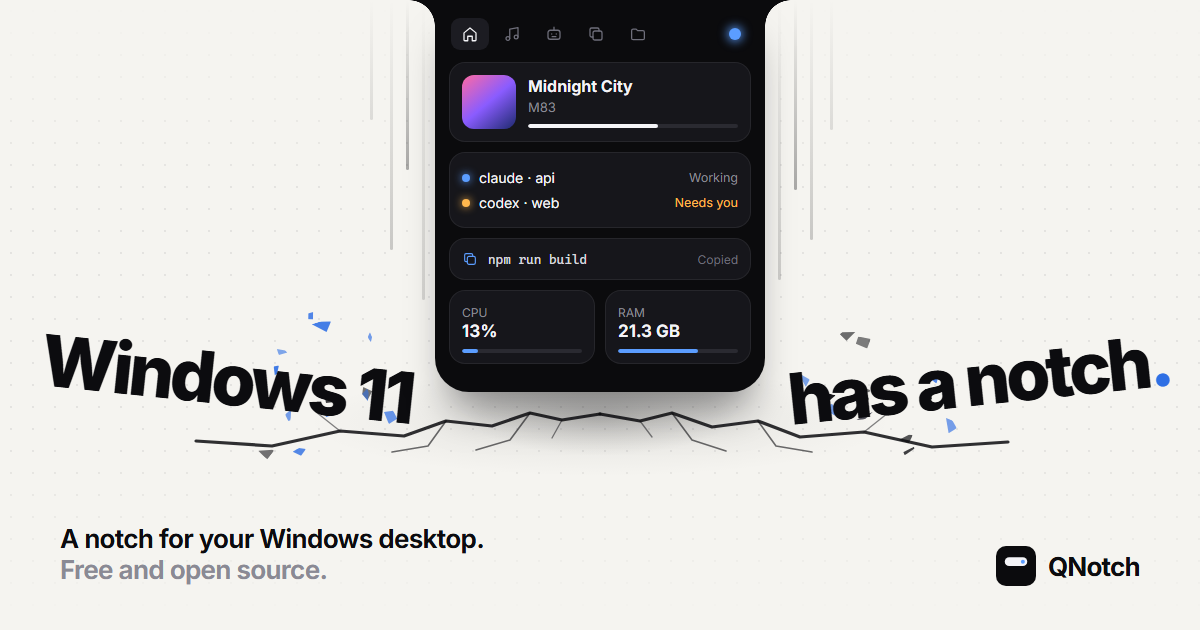
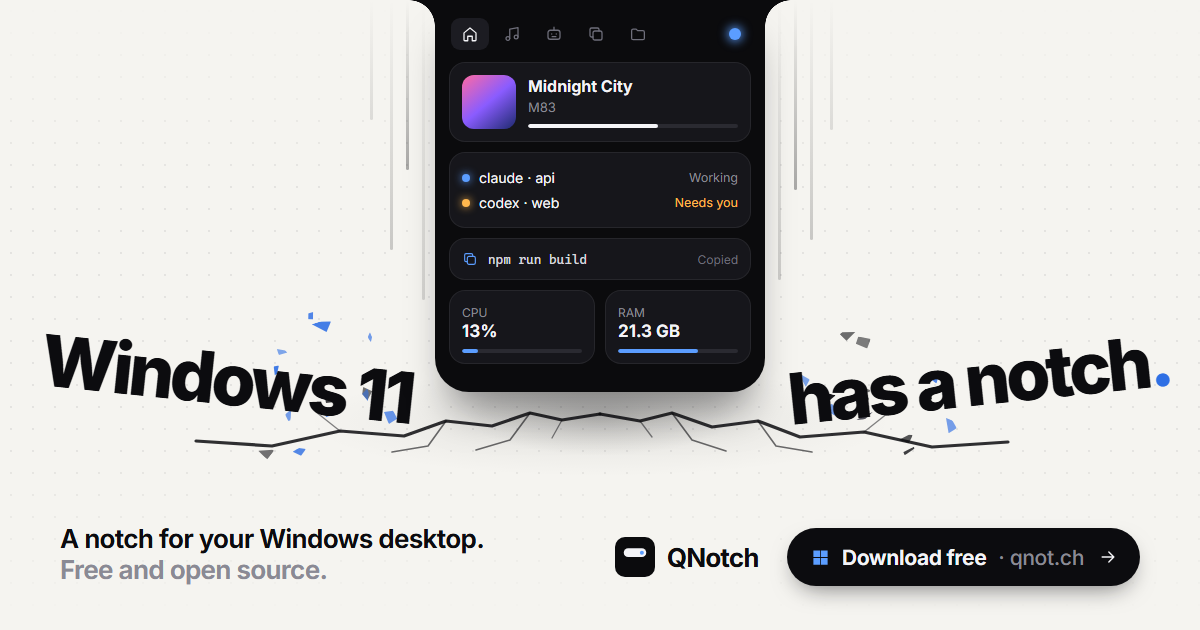
Fix meta-tag warnings for social previews
Add og:site_name, shorten the description to 115 characters so previews
don't truncate it, and add a "Download free" call to action to the
Open Graph image.

Changed region(s): [[0.4933, 0.8143, 0.9558, 0.9651]]

diff --git a/website/og/og.html b/website/og/og.html
@@ -99,6 +99,17 @@
   .tag span { color: #8a8a94; }
   .logo { display: flex; align-items: center; gap: 12px; font-size: 26px; font-weight: 700; letter-spacing: -0.03em; }
   .mark { width: 40px; height: 40px; }
+  .right { display: flex; align-items: center; gap: 28px; }
+  .cta {
+    display: flex; align-items: center; gap: 12px;
+    height: 58px; padding: 0 22px 0 24px; border-radius: 999px;
+    background: #0c0c0f; color: #f4f4f7;
+    font-size: 21px; font-weight: 650; letter-spacing: -0.015em;
+    box-shadow: 0 10px 24px -10px rgba(12,12,15,0.6);
+  }
+  .cta .win { font-size: 19px; color: #5b9dff; }
+  .cta .arrow { font-size: 20px; margin-left: 2px; }
+  .cta span { color: #8a8a94; font-weight: 500; }
 </style>
 </head>
 <body>
@@ -149,9 +160,16 @@
 
   <div class="foot">
     <p class="tag">A notch for your Windows desktop.<br /><span>Free and open source.</span></p>
+    <div class="right">
     <div class="logo">
       <svg class="mark" viewBox="0 0 32 32"><rect width="32" height="32" rx="8" fill="#0B0B0D"/><rect x="7" y="9" width="18" height="7" rx="3.5" fill="#F4F4F7"/><circle cx="21.5" cy="12.5" r="1.6" fill="#5B9DFF"/></svg>
       QNotch
+    </div>
+    <div class="cta">
+      <svg class="i win" viewBox="0 0 24 24"><path fill="currentColor" stroke="none" d="M3 3h8.5v8.5H3zM12.5 3H21v8.5h-8.5zM3 12.5h8.5V21H3zM12.5 12.5H21V21h-8.5z"/></svg>
+      Download free <span>· qnot.ch</span>
+      <svg class="i arrow" viewBox="0 0 24 24"><path d="M5 12h14M13 6l6 6-6 6"/></svg>
+    </div>
     </div>
   </div>
 
